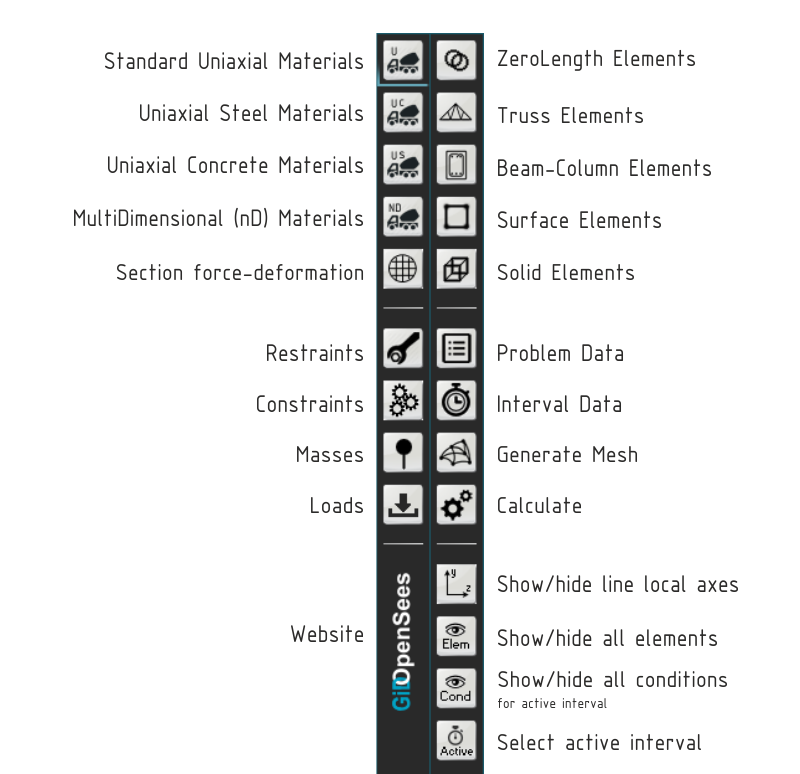
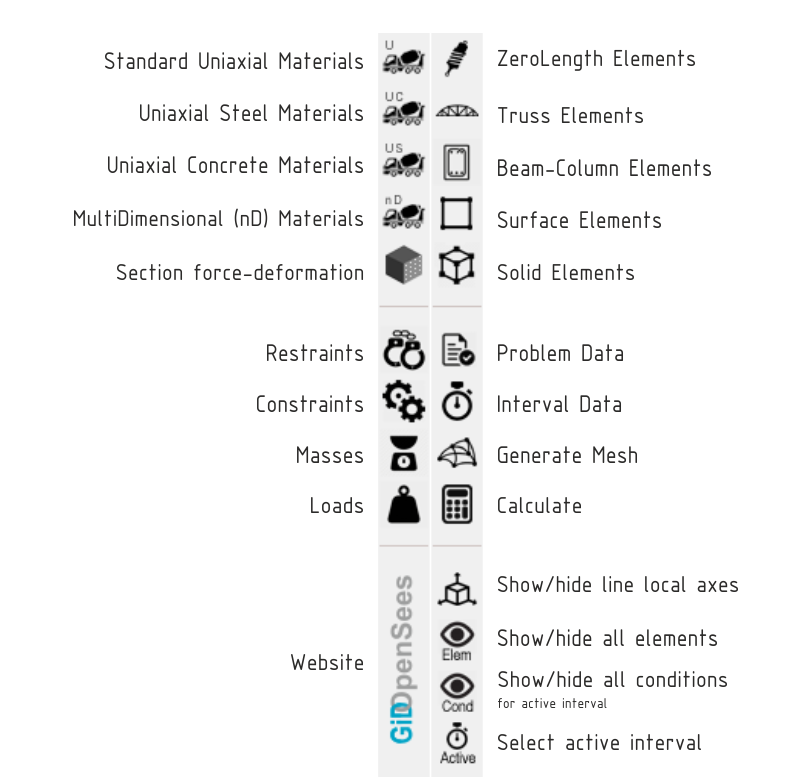
v1.5.0

diff --git a/README.md b/README.md
@@ -23,6 +23,7 @@ V.K. Papanikolaou, Assistant Professor AUTh
 - OpenSees does not combine constraints (multiple 'fix' commands on the same node). As a result:
    - Intersection joints that belong to two lines with different constraints should be handled seperately.
    - Intersection lines that belong to two surfaces with different constraints should be handled seperately.
+- The horizontal information bar stays in front of GiD material/condition windows when the respective menu options are used; please use the toolbar buttons instead. However, there's no way at the moment to hide the information bar behind the GiD Layer and Copy windows.
 
 ---
 
@@ -38,15 +39,15 @@ V.K. Papanikolaou, Assistant Professor AUTh
 - Now supported : **Tri31 Element**
 - Now supported : **Fiber Section**
 - Now supported : **Pushover and Cyclic analysis**
+- Fully themed (classic and black)
 - New information bar
 - Toolbar : Show/hide line local axes
 - Toolbar : Interval data
 - Toolbar : Show/hide elements and conditions
 - Toolbar : Select active interval
 - ZeroLength element form updated
-- Check for problemtype version mismatch
+- Prompt for model transform when needed
 - OpenSeesPost.exe rewritten
-- Icons/images updated
 - Output data file (.tcl) format improved
 - OpenSeesSP and OpenSeesMP supported on installation
 - Error message windows for unsuccessful analysis
